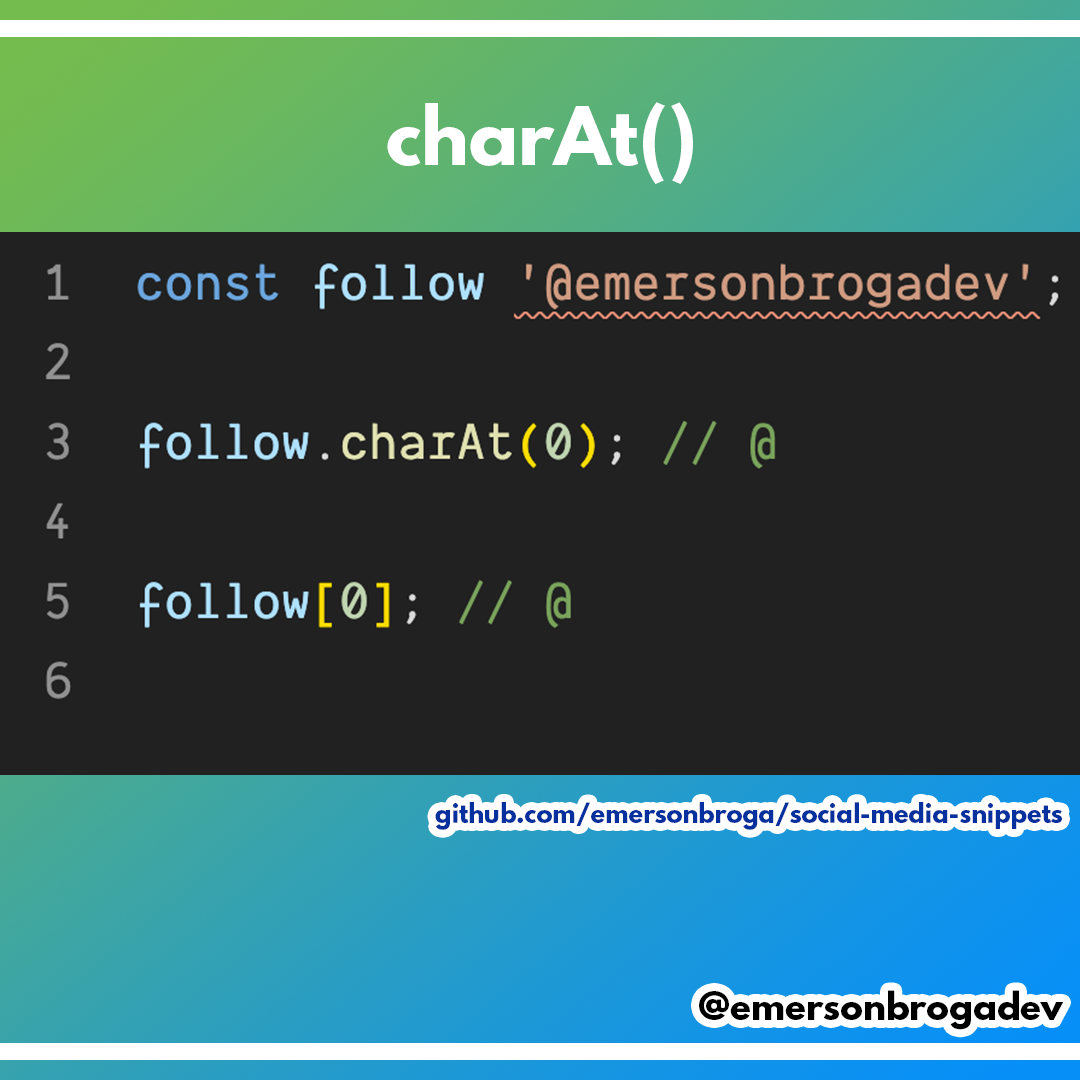
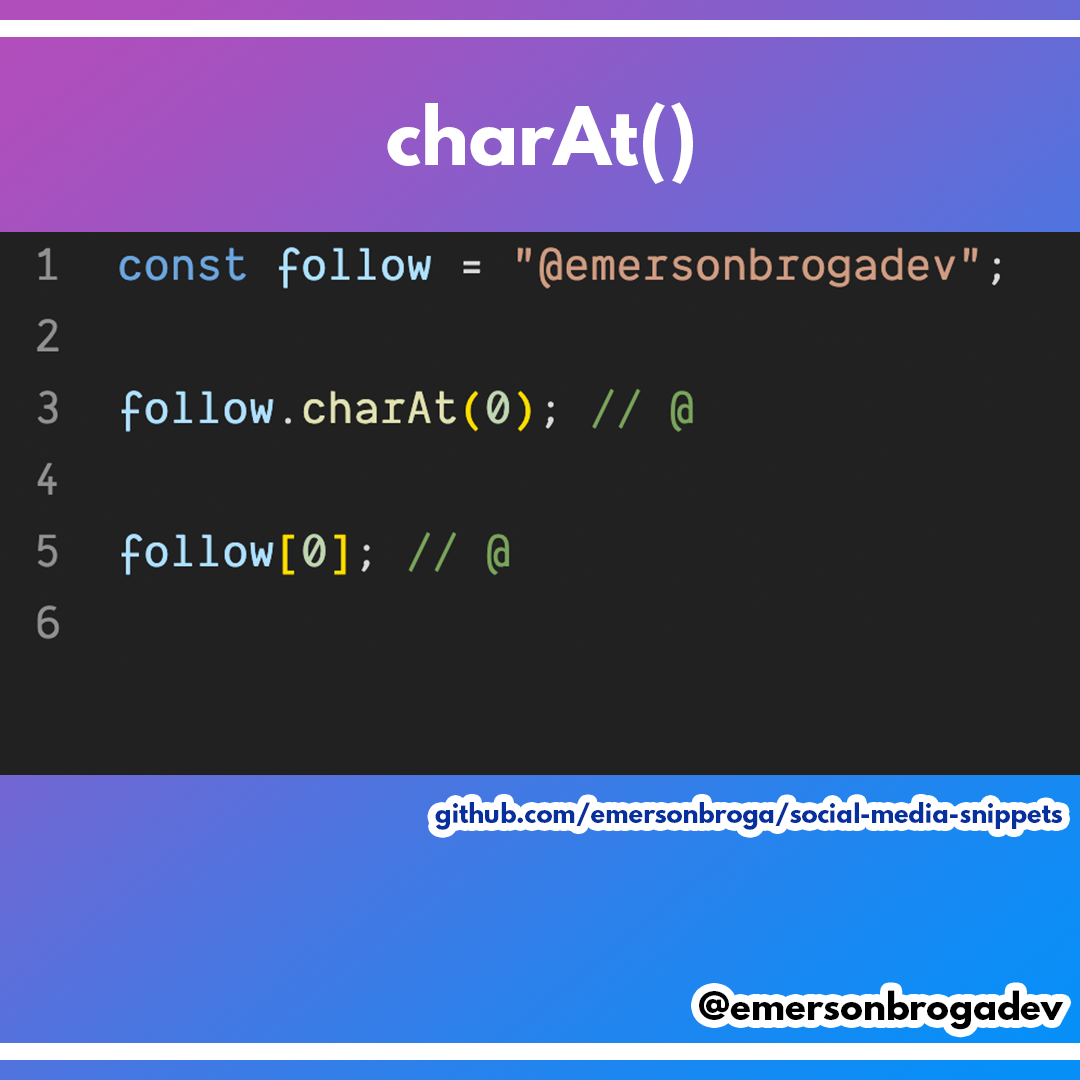
Social media post 2020-01-28

diff --git a/content/2020-01-28/README.md b/content/2020-01-28/README.md
@@ -5,7 +5,7 @@
 #### Código para fácil acesso:
 
 ```js
-const follow '@emersonbrogadev';
+const follow = "@emersonbrogadev";
 
 follow.charAt(0); // @
 
